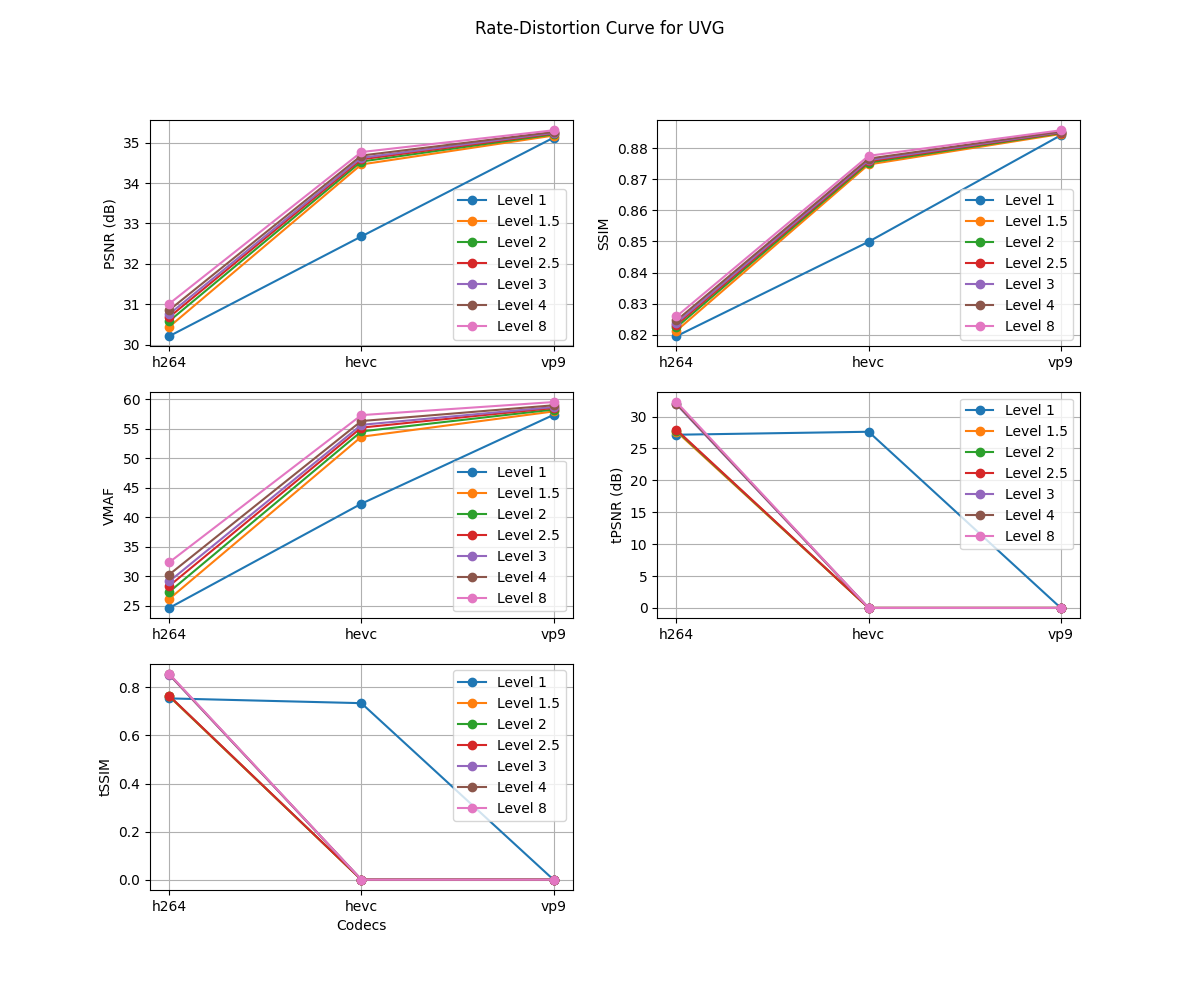
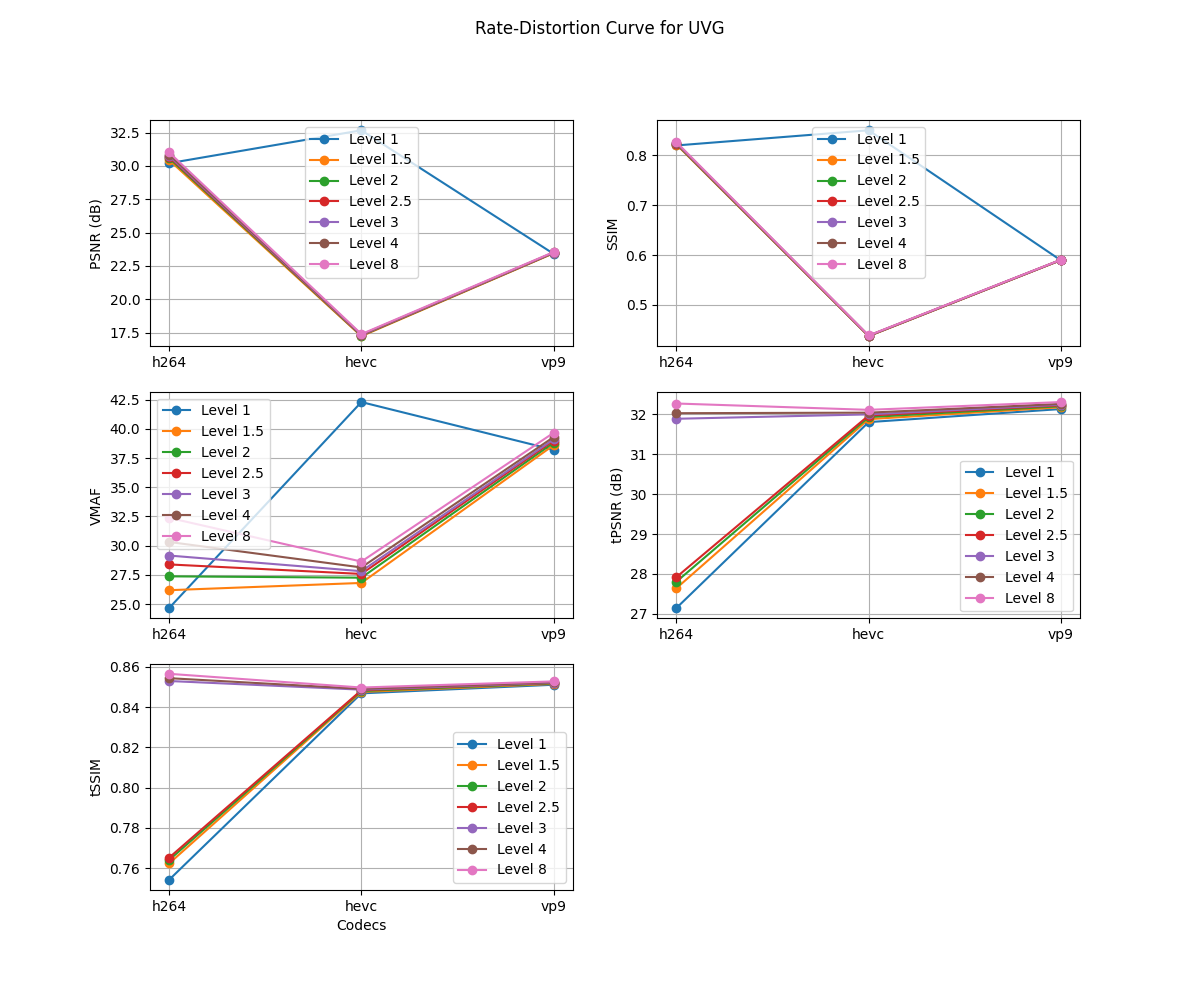
added cleanup for results

diff --git a/visualizations/visualize_results.py b/visualizations/visualize_results.py
@@ -17,7 +17,7 @@ dataset_2_files = {
 def visualize_results_by_codec(output_dir="visualizations"):
     
     for dataset in datasets:
-        plt.figure(figsize=(8, 8))
+        plt.figure(figsize=(12, 12))
         plt.suptitle(f"Rate-Distortion Curve for {dataset}")
 
         for codec in codecs:
@@ -34,9 +34,9 @@ def visualize_results_by_codec(output_dir="visualizations"):
                     "tpsnr": [],
                     "tssim": []}
                 for video_name, video_data in video_results.items():
-                    metrics_for_codec[level]["psnr"].append(video_data["psnr"])
-                    metrics_for_codec[level]["ssim"].append(video_data["ssim"])
-                    metrics_for_codec[level]["vmaf"].append(video_data["vmaf"])
+                    metrics_for_codec[level]["psnr"].append(video_data["psnr"] if "psnr" in video_data else 0)
+                    metrics_for_codec[level]["ssim"].append(video_data["ssim"] if "ssim" in video_data else 0)
+                    metrics_for_codec[level]["vmaf"].append(video_data["vmaf"] if "vmaf" in video_data else 0)
                     metrics_for_codec[level]["tpsnr"].append(video_data["tpsnr"] if "tpsnr" in video_data else 0)
                     metrics_for_codec[level]["tssim"].append(video_data["tssim"] if "tssim" in video_data else 0)
             # average over all videos for each level
@@ -92,7 +92,7 @@ def visualize_results_by_codec(output_dir="visualizations"):
 
 def visualize_results_by_level(output_dir="visualizations"):
     for dataset in datasets:
-        plt.figure(figsize=(12, 10))
+        plt.figure(figsize=(12, 12))
         plt.suptitle(f"Rate-Distortion Curve for {dataset}")
 
         for level in levels:
@@ -110,9 +110,9 @@ def visualize_results_by_level(output_dir="visualizations"):
                     "tssim": []
                     }
                 for video_name, video_data in video_results.items():
-                    metrics_for_level[codec]["psnr"].append(video_data["psnr"])
-                    metrics_for_level[codec]["ssim"].append(video_data["ssim"])
-                    metrics_for_level[codec]["vmaf"].append(video_data["vmaf"])
+                    metrics_for_level[codec]["psnr"].append(video_data["psnr"] if "psnr" in video_data else 0)
+                    metrics_for_level[codec]["ssim"].append(video_data["ssim"] if "ssim" in video_data else 0)
+                    metrics_for_level[codec]["vmaf"].append(video_data["vmaf"] if "vmaf" in video_data else 0)
                     metrics_for_level[codec]["tpsnr"].append(video_data["tpsnr"] if "tpsnr" in video_data else 0)
                     metrics_for_level[codec]["tssim"].append(video_data["tssim"] if "tssim" in video_data else 0)
             # average over all videos for each codec

diff --git a/eval_metrics.py b/eval_metrics.py
@@ -26,10 +26,10 @@ def find_original_for_compressed(video_name):
     return base_name
 
 datasets = ["UVG","HEVC_CLASS_B"]
-codecs = ["h264","hevc","vp9"]
+codecs = ["h264"]
 levels = ["1","1.5","2","2.5","3","4","8"]
 
-compute_metrics =["tssim","tpsnr"]
+compute_metrics =["ssim","psnr","vmaf"]
 
 for dataset in datasets:
     if not os.path.exists("results/eval_metrics_" + dataset.lower()):
@@ -39,6 +39,7 @@ for dataset in datasets:
         for level in levels:
             compressed_videos.extend([(video,codec,level) for video in os.listdir("compressed_videos/" + dataset + "/" + codec + "/" + level + "/")])
     compressed_videos = list(filter(lambda x: not x[0].endswith(".json"), compressed_videos))
+    print(f"Found compressed videos for dataset {dataset}: {len(compressed_videos)}")
     json_output = {}
 
     for tuple in compressed_videos:
@@ -65,9 +66,9 @@ for dataset in datasets:
         json_output[video] = {}
         if "psnr" in compute_metrics or "ssim" in compute_metrics or "vmaf" in compute_metrics:
             ffqm_metrics = list(filter(lambda x: x in ["psnr","ssim","vmaf"], compute_metrics))
+            print("Calculating ffqm metrics:", ffqm_metrics)
             metrics = ffqm.calculate(ffqm_metrics)
             print("Metrics:", metrics.keys())
-        
         if "psnr" in compute_metrics:
             print("PSNR")
             psnr_avg = sum([frame["psnr_avg"] for frame in metrics["psnr"]]) / len(metrics["psnr"])

diff --git a/results/cleanup.py b/results/cleanup.py
@@ -1,0 +1,21 @@
+import json
+import os
+
+datasets = ["UVG","HEVC_CLASS_B"]
+codecs = ["h264","hevc","vp9"]
+levels = ["1","1.5","2","2.5","3","4","8"]
+
+if __name__ == "__main__":
+    for dataset in datasets:
+        for codec in codecs:
+            for level in levels:
+                result_file = f"results/eval_metrics_{dataset}_{codec}_level{level}.json"
+                if os.path.exists(result_file):
+                    data = json.load(open(result_file, "r"))
+                    cleaned_data = {}
+                    for video, _ in data.items():
+                        if video.split("_")[-1].split(".")[0] == codec:
+                            cleaned_data[video] = data[video]
+                    with open(result_file, "w") as f:
+                        json.dump(cleaned_data, f, indent=4)
+                    print(f"Cleaned up {result_file}, kept {len(cleaned_data)}/{len(data)} entries.")
